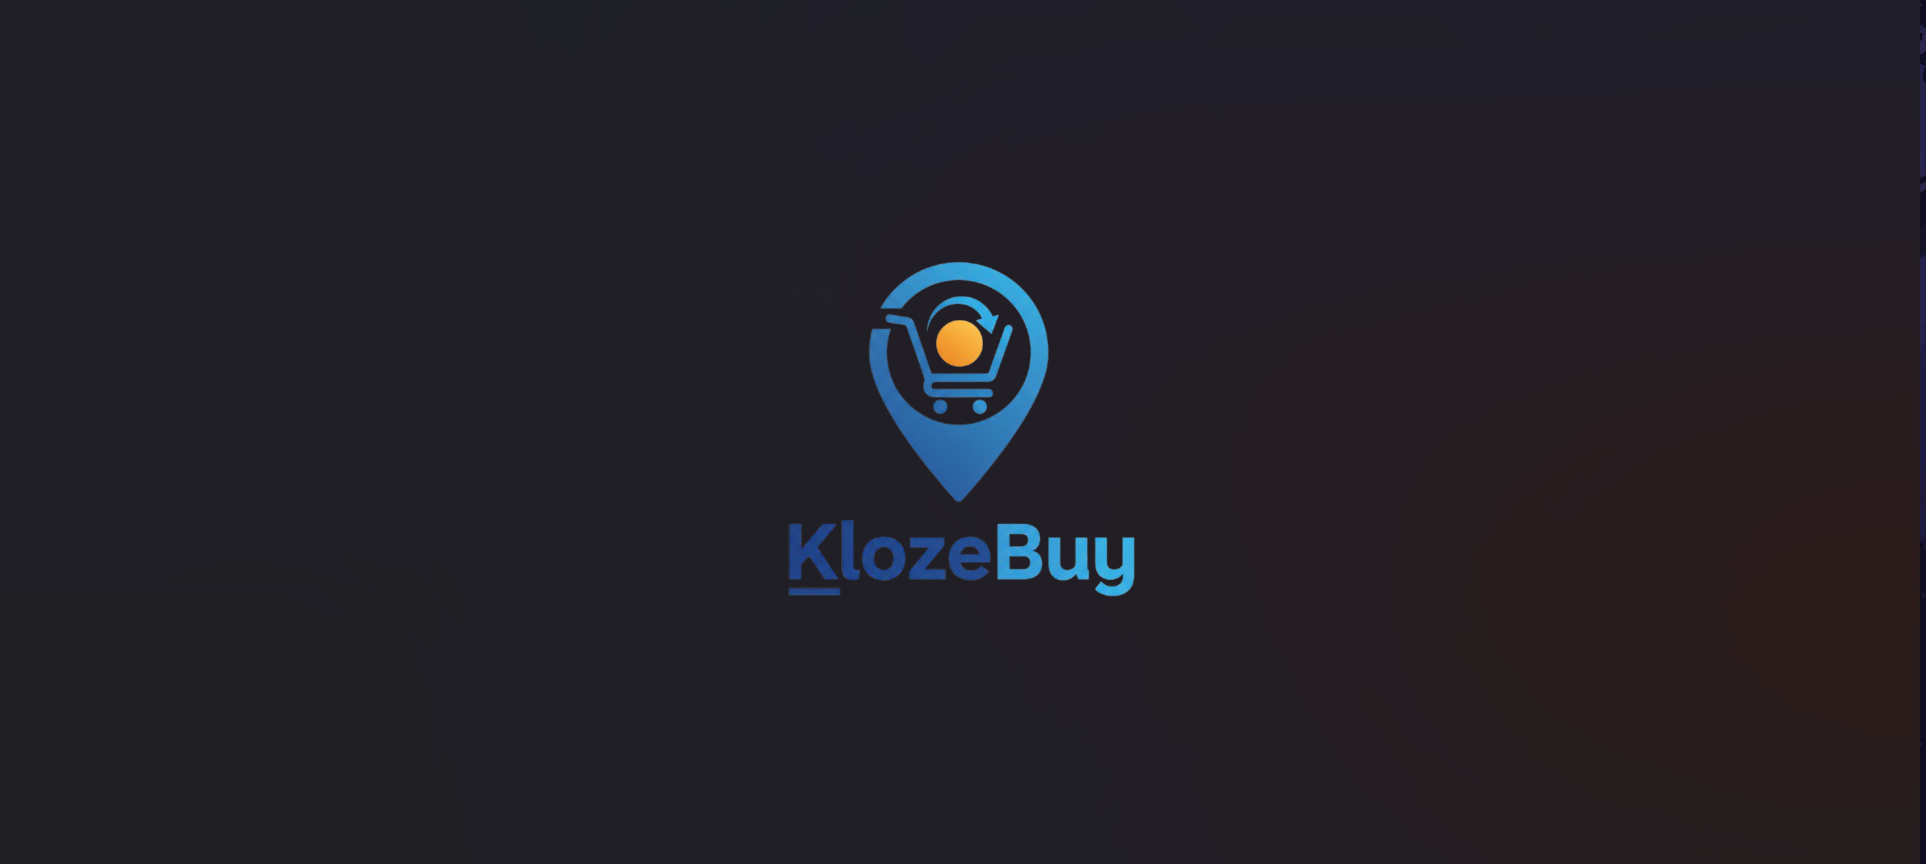
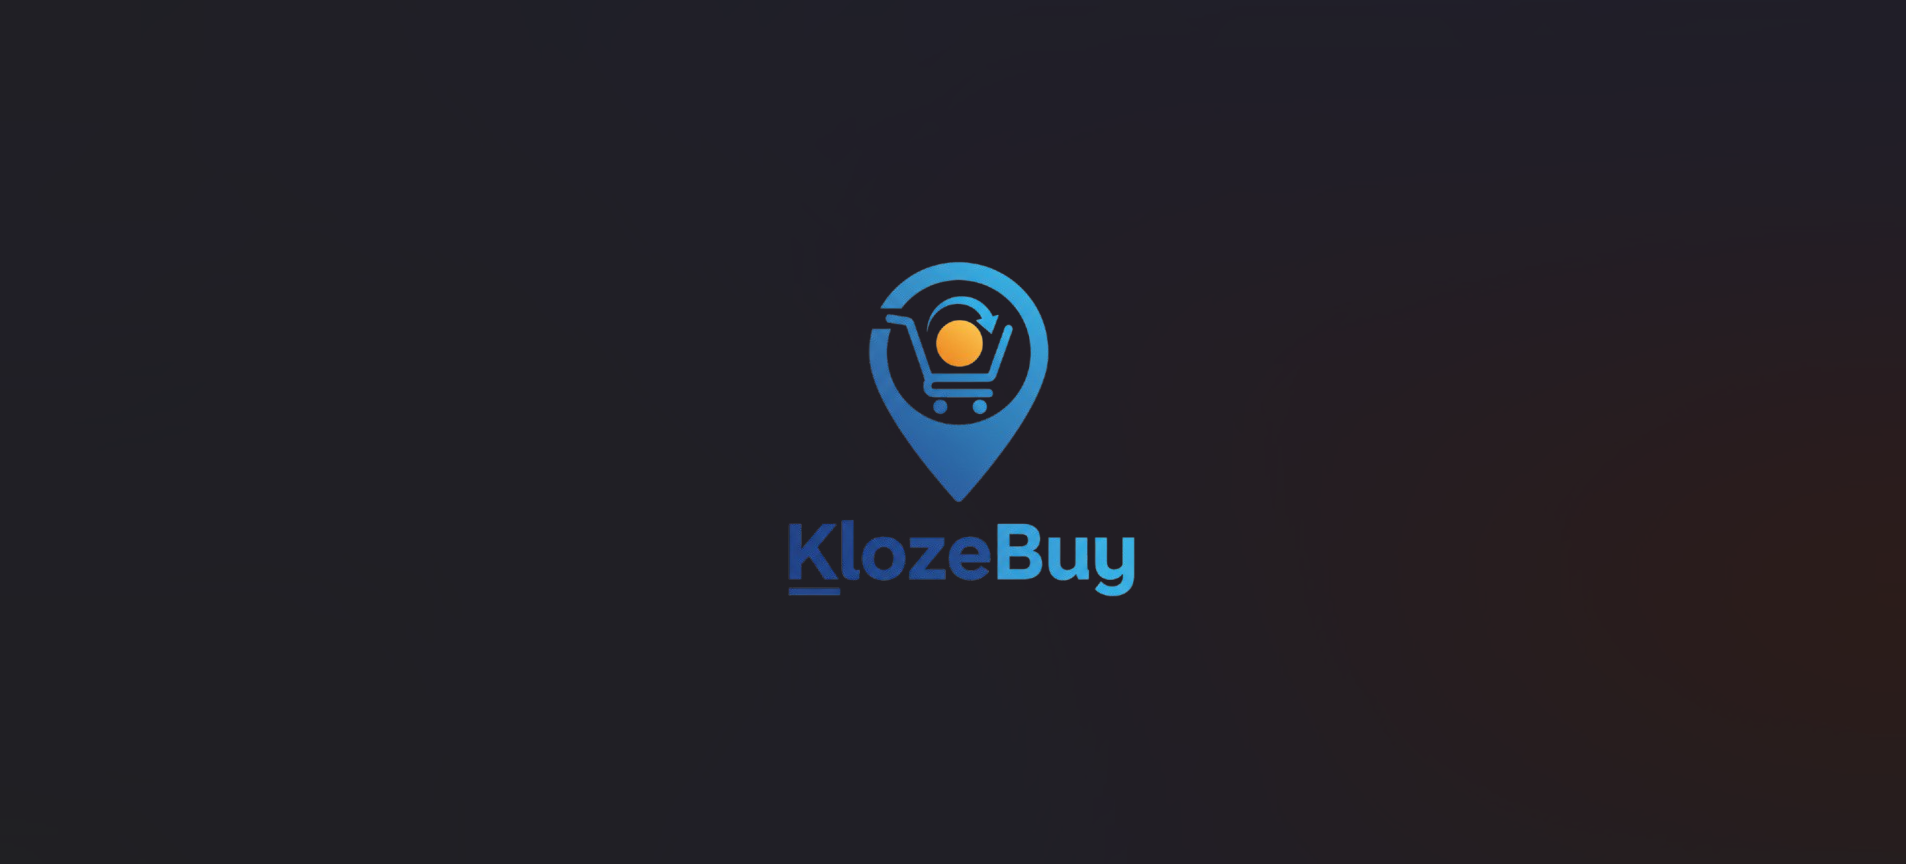
fix: Styling & Image Cropping

Changed region(s): [[0.4024, 0.3125, 0.6191, 0.6875], [0.9906, 0.2812, 1.0, 0.9062], [0.9906, 0.0312, 1.0, 0.2188]]

diff --git a/src/pages/Index.css b/src/pages/Index.css
@@ -257,7 +257,7 @@
   background: var(--bg-surface);
   border: 1px solid var(--glass-border);
   width: 100%;
-  min-height: 7rem;
+  height: 10em;
   padding: 1.2rem 1rem;
   border-radius: var(--radius-md);
   transition:
@@ -377,7 +377,7 @@
   font-family: "Raleway", sans-serif;
   font-size: 22px;
   font-weight: 500;
-  margin: 18px 0 12px 0;
+  margin: 18px 0 18px 15px;
 }
 
 .git-link {

diff --git a/src/pages/Projects.jsx b/src/pages/Projects.jsx
@@ -99,7 +99,7 @@ export const projectItems = [
       "images/klozebuyImg.png",
     ],
     projectType: "PROXIMITY-BASED MARKETPLACE MOBILE APP",
-    title: "klozeBuy",
+    title: "KlozeBuy",
     url: "https://github.com/earlmorningstar/klozebuy",
     stack: [
       { img: "images/react-native-3d.png", name: "React Native" },
